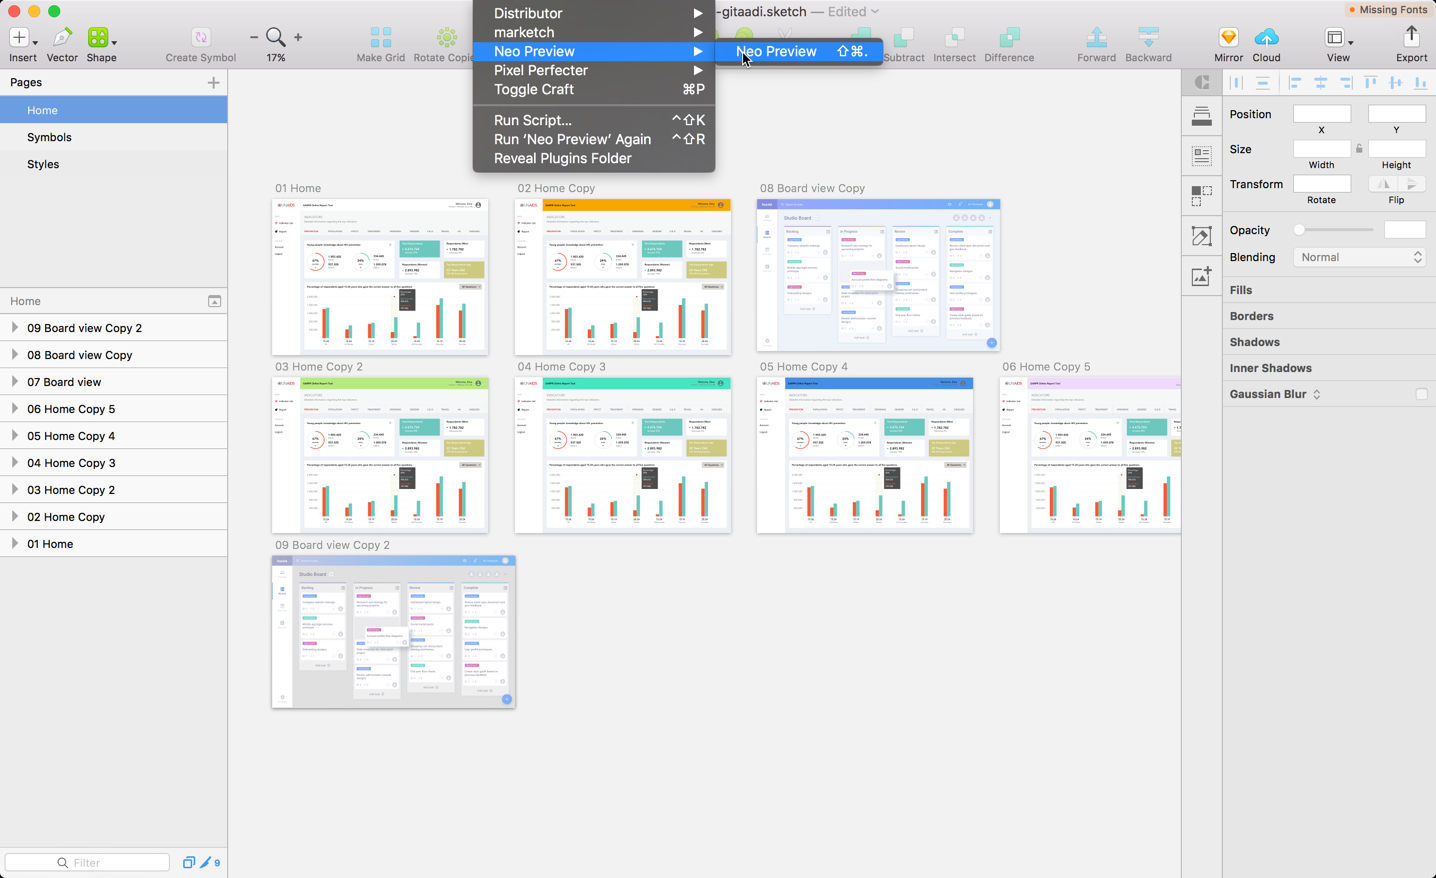
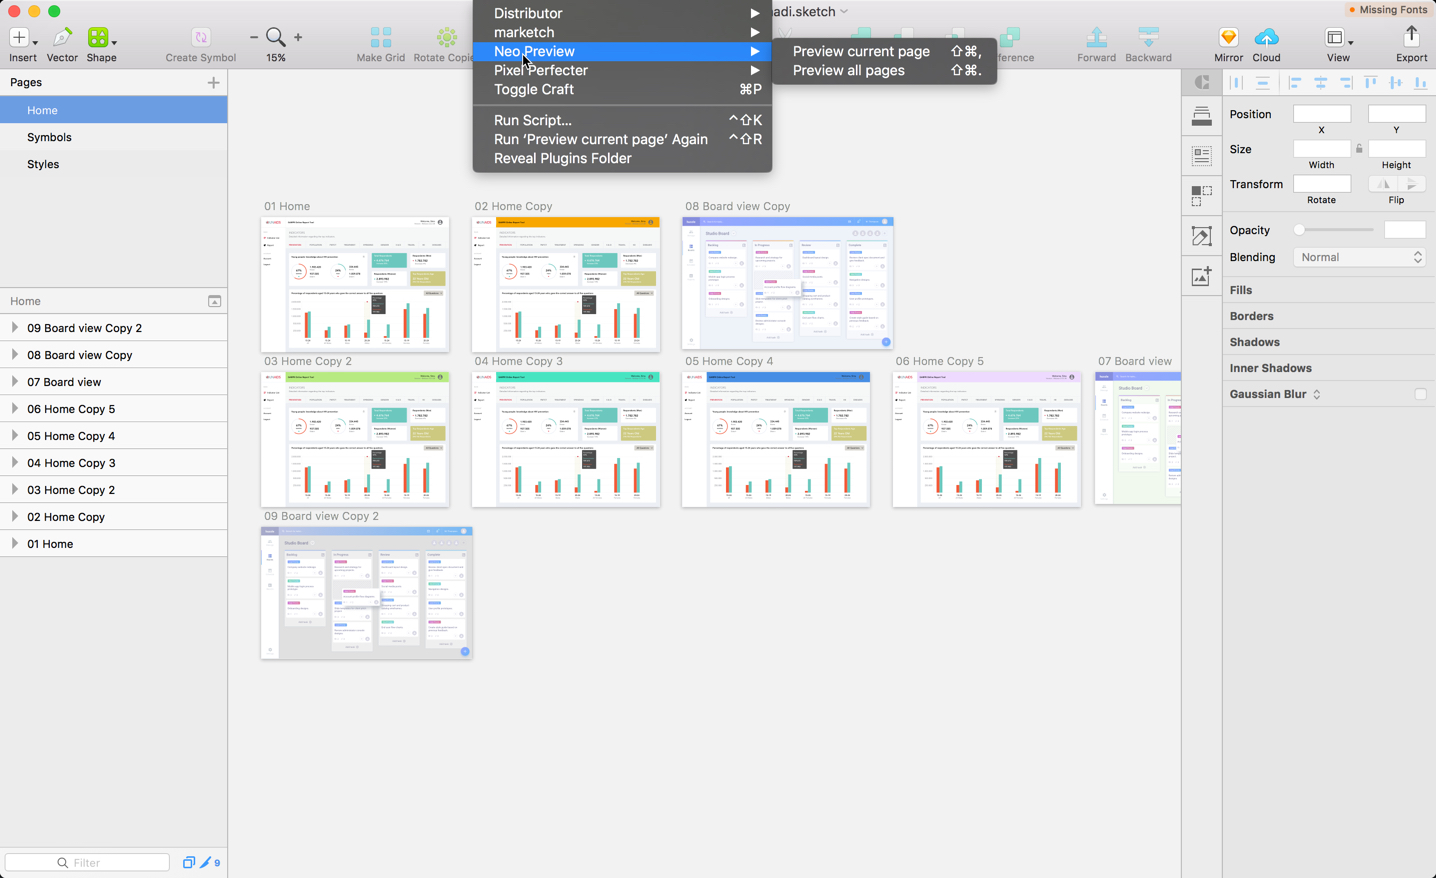
added screenshots and description for the new command

Changed region(s): [[0.1838, 0.0, 0.8273, 0.7688], [0.337, 0.7688, 0.3677, 0.7995]]

diff --git a/README.md b/README.md
@@ -4,25 +4,25 @@
 
 ### How to install
 
-1. download [plugin zip file](https://github.com/alanfraneo/sketch-neo-preview/archive/master.zip)
+1. Download the [plugin](https://github.com/alanfraneo/sketch-neo-preview/archive/master.zip)
 
 2. Extract it.
 
-3. Run the `Neo Preview.sketchplugin` by double clicking it. 
+3. Run the `Neo Preview.sketchplugin` by double clicking it.
 
 That's it, the plugin will be installed and available under the plugins menu in Sketch.
 
 ### Features
 
-Export all artboards from all pages to a gallery using keyboard shortcut `cmd` + `shift` + `.`
+Export all artboards from current page to a gallery using keyboard shortcut `cmd` + `shift` + `,`
 
-Plugin will, by default exclude Symbols & Styles pages. Also for convenience excludes any page starting with an `underscore`
+Export all artboards from all pages to a gallery using keyboard shortcut `cmd` + `shift` + `.` - by default export will exclude `Symbols` & `Styles` pages. Also for convenience excludes any page starting with an `_`. For example: If I don't want to export a page for prototype preview like icons page, I'll add an underscore to exclude it.
 
 Gallery images maximize on click and fit to width. Ideal for prototypes as we can use this to check scrolling.
 
 Use keyboard shortcuts to navigate between images quickly. `left` and `right` arrows to move between screens and `esc` to minimize and go back to gallery.
 
-Each image will have a numbered unique location.hash based URL, so can easily share URLs if the files were in a web server.
+Each image will have a numbered unique `location.hash` based URL, so can easily share URLs if the files were in a web server.
 
 ### Screenshots
 
